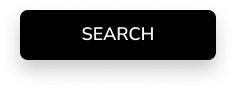
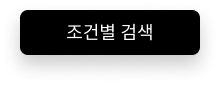
이미지 추가및 수정

Changed region(s): [[0.0818, 0.0941, 0.9273, 0.6824], [0.3, 0.2824, 0.7091, 0.4941]]

diff --git a/0623Start/src/secondweek/AuctionFrame.java b/0623Start/src/secondweek/AuctionFrame.java
@@ -745,8 +745,8 @@ public class AuctionFrame extends JFrame {
 		pnl10.add(viewProductBtn10);
 
 		JButton returnBtn = new JButton();
-		returnBtn.setBounds(750, 46, 130, 50);
-		ImageIcon imgreturnBtn = new ImageIcon("img/Goback_1.png");
+		returnBtn.setBounds(740, 48, 130, 50);
+		ImageIcon imgreturnBtn = new ImageIcon("img/resetSearch_1.png");
 		returnBtn.setContentAreaFilled(false);
 		returnBtn.setBorderPainted(false);
 		returnBtn.setIcon(imgreturnBtn);
@@ -754,14 +754,14 @@ public class AuctionFrame extends JFrame {
 		returnBtn.addMouseListener(new MouseAdapter() {
 			@Override
 			public void mouseExited(MouseEvent e) {
-				ImageIcon imgreturnBtn = new ImageIcon("img/Goback_1.png");
+				ImageIcon imgreturnBtn = new ImageIcon("img/resetSearch_1.png");
 				returnBtn.setIcon(imgreturnBtn);
 
 			}
 
 			@Override
 			public void mouseEntered(MouseEvent e) {
-				ImageIcon imgreturnBtn = new ImageIcon("img/Goback.png");
+				ImageIcon imgreturnBtn = new ImageIcon("img/resetSearch.png");
 				returnBtn.setIcon(imgreturnBtn);
 
 			}
@@ -916,7 +916,7 @@ public class AuctionFrame extends JFrame {
 		docBack.setDocumentFilter(new NumberOnlyFilter(15));
 
 		JButton priceRange = new JButton("검색");
-		priceRange.setBounds(60, 750, 195, 58);
+		priceRange.setBounds(60, 743, 197, 62);
 		ImageIcon imgsearchType = new ImageIcon("img/searchBtn1_1.png");
 		priceRange.setContentAreaFilled(false);
 		priceRange.setBorderPainted(false);

diff --git a/0623Start/src/secondweek/LoginFrame.java b/0623Start/src/secondweek/LoginFrame.java
@@ -223,6 +223,36 @@ public class LoginFrame extends JFrame {
 				frame.dispose();
 			}
 		});
+		JButton manualBtn = new JButton();
+		manualBtn.setBounds(160, 200, 300, 85);
+		ImageIcon imgmanual = new ImageIcon("img/manualBtn_1.png");
+		manualBtn.setContentAreaFilled(false);
+		manualBtn.setBorderPainted(false);
+		manualBtn.setIcon(imgmanual);
+		manualBtn.setVisible(true);
+		manualBtn.addMouseListener(new MouseAdapter() {
+			@Override
+			public void mouseExited(MouseEvent e) {
+				ImageIcon imgmanual = new ImageIcon("img/manualBtn_1.png");
+				manualBtn.setIcon(imgmanual);
+
+			}
+
+			@Override
+			public void mouseEntered(MouseEvent e) {
+				ImageIcon imgmanual = new ImageIcon("img/manualBtn.png");
+				manualBtn.setIcon(imgmanual);
+
+			}
+		});
+		manualBtn.addActionListener(new ActionListener() {
+			@Override
+			public void actionPerformed(ActionEvent e) {
+				new ManualFrame();
+				
+			}
+		});
+		contentPane.add(manualBtn);
 
 		contentPane.add(idLbl);
 		contentPane.add(idTF);

diff --git a/0623Start/src/secondweek/ManualFrame.java b/0623Start/src/secondweek/ManualFrame.java
@@ -1,0 +1,33 @@
+package secondweek;
+
+import javax.swing.ImageIcon;
+import javax.swing.JFrame;
+import javax.swing.JLabel;
+import javax.swing.JPanel;
+import java.awt.BorderLayout;
+
+public class ManualFrame extends JFrame {
+    public ManualFrame() {
+        setTitle("Image Panel Example");
+        setDefaultCloseOperation(JFrame.DISPOSE_ON_CLOSE);
+        setSize(600, 500);
+        setLocationRelativeTo(null);
+
+        JPanel panel = new JPanel();
+        getContentPane().add(panel, BorderLayout.CENTER);
+        panel.setLayout(null);
+
+     
+        ImageIcon imageIcon = new ImageIcon("img/manual.gif");
+
+        // 이미지를 표시할 JLabel 생성
+        JLabel imageLabel = new JLabel(imageIcon);
+        imageLabel.setBounds(0, 0, imageIcon.getIconWidth(), imageIcon.getIconHeight());
+
+        // 패널에 이미지 레이블 추가
+        panel.add(imageLabel);
+
+        setVisible(true);
+    }
+
+}
